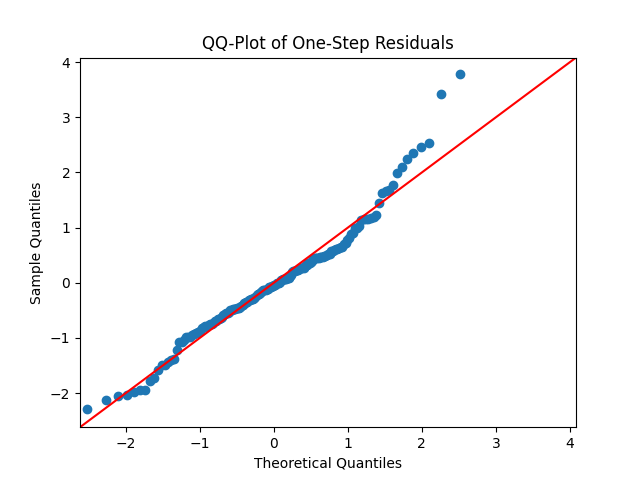
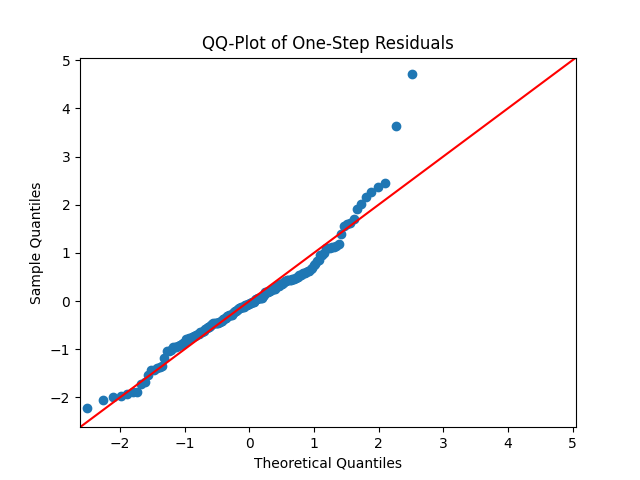
2.2 done

diff --git a/harh/exercise2_2_harh.py b/harh/exercise2_2_harh.py
@@ -165,3 +165,32 @@ info = pd.DataFrame({
     "value": [n, k, lnL, AIC, BIC]
 })
 info.to_csv(f"{PARENT_DIR}/images/2.2/info_criteria.csv", index=False)
+
+
+# ------------------------------------------------------------------
+# Combined 2 × 2 chart
+# ------------------------------------------------------------------
+lags = 40                 # or whatever you prefer
+fig, axes = plt.subplots(2, 2, figsize=(12, 10))
+(ax_resid, ax_qq), (ax_acf, ax_pacf) = axes
+
+# 1) One‑step residuals
+ax_resid.plot(innovations, label="Residuals")
+ax_resid.set_title("Residuals of 1‑Step Predictions")
+ax_resid.legend()
+
+# 2) QQ–plot of residuals
+sm.qqplot(innovations, line="45", fit=True, ax=ax_qq)   # send it to the right axes
+ax_qq.set_title("QQ-Plot of One-Step Residuals")
+
+# 3) ACF of residuals
+plot_acf(innovations, lags=lags, ax=ax_acf)
+ax_acf.set_title("ACF of 1‑Step Residuals")
+
+# 4) PACF of residuals
+plot_pacf(innovations, lags=lags, ax=ax_pacf, method="ywm")
+ax_pacf.set_title("PACF of 1‑Step Residuals")
+
+plt.tight_layout()
+plt.savefig(f"{PARENT_DIR}/images/2.2/diagnostic_2x2.png")
+plt.show()
